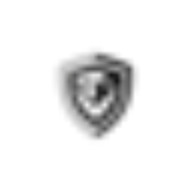
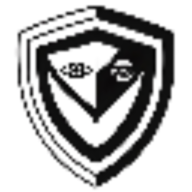
beta 0.005

diff --git a/site/templates/check.html b/site/templates/check.html
@@ -7,15 +7,15 @@
     <link rel="stylesheet" href="{{ url_for('static', filename='styles.css') }}">
 
     <!-- Добавление иконок сайта -->
-    <link rel="icon" href="{{ url_for('static', filename='favicon.ico') }}" type="image/x-icon">
+    <link rel="icon" href="{{ url_for('static', filename='android-chrome-512x512.png') }}" type="image/x-icon">
     <link rel="apple-touch-icon" sizes="180x180" href="{{ url_for('static', filename='apple-touch-icon.png') }}">
-    <link rel="icon" type="image/png" sizes="32x32" href="{{ url_for('static', filename='favicon-32x32.png') }}">
-    <link rel="icon" type="image/png" sizes="16x16" href="{{ url_for('static', filename='favicon-16x16.png') }}">
+    <link rel="icon" type="image/png" sizes="32x32" href="{{ url_for('static', filename='android-chrome-512x512.png') }}">
+    <link rel="icon" type="image/png" sizes="16x16" href="{{ url_for('static', filename='android-chrome-512x512.png') }}">
 </head>
 <body>
     <header class="header">
         <div class="logo">
-            <img src="{{ url_for('static', filename='logo.png') }}" alt="Логотип">
+            <img src="{{ url_for('static', filename='android-chrome-512x512.png') }}" alt="Логотип">
         </div>
         <nav class="navbar">
             <a href="/main" class="nav-button">Главная</a>

diff --git a/site/templates/main.html b/site/templates/main.html
@@ -9,15 +9,15 @@
     <link rel="stylesheet" href="{{ url_for('static', filename='styles.css') }}">
 
     <!-- Добавление иконок сайта -->
-    <link rel="icon" href="{{ url_for('static', filename='favicon.ico') }}" type="image/x-icon">
+    <link rel="icon" href="{{ url_for('static', filename='android-chrome-512x512.png') }}" type="image/x-icon">
     <link rel="apple-touch-icon" sizes="180x180" href="{{ url_for('static', filename='apple-touch-icon.png') }}">
-    <link rel="icon" type="image/png" sizes="32x32" href="{{ url_for('static', filename='favicon-32x32.png') }}">
-    <link rel="icon" type="image/png" sizes="16x16" href="{{ url_for('static', filename='favicon-16x16.png') }}">
+    <link rel="icon" type="image/png" sizes="32x32" href="{{ url_for('static', filename='android-chrome-512x512.png') }}">
+    <link rel="icon" type="image/png" sizes="16x16" href="{{ url_for('static', filename='android-chrome-512x512.png') }}">
 </head>
 <body>
     <header class="header">
         <div class="logo">
-            <img src="{{ url_for('static', filename='logo.png') }}" alt="Логотип">
+            <img src="{{ url_for('static', filename='android-chrome-512x512.png') }}" alt="Логотип">
         </div>
         <nav class="navbar">
             <a href="/main" class="nav-button">Главная</a>
